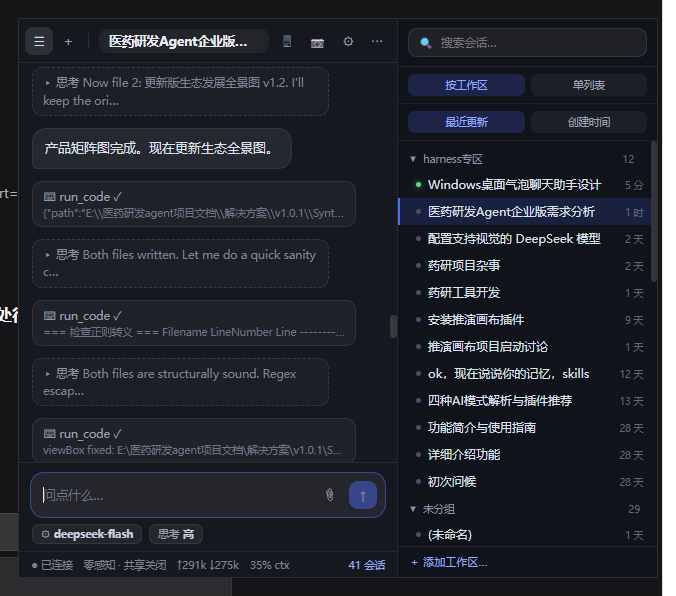
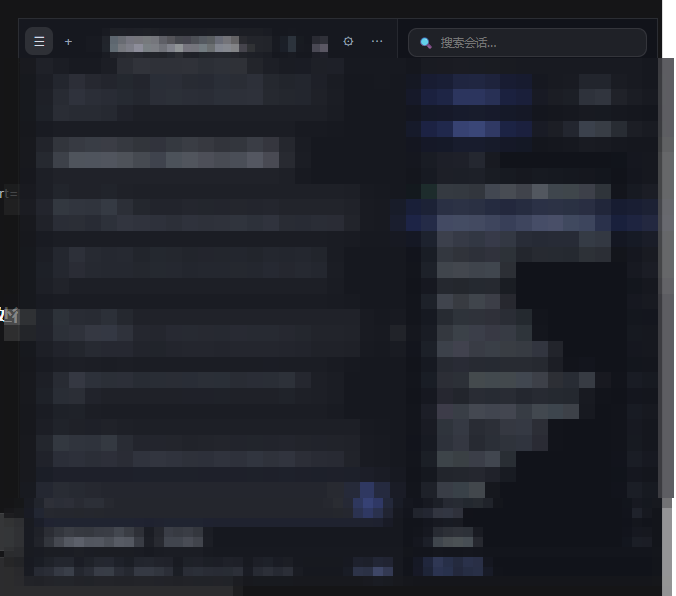
截图打码：侧边栏/聊天内容/状态栏全部马赛克（原来会暴露会话名与项目路径）；删掉已过时的屏幕感知截图（还显示着已合并的三档）

diff --git a/README.md b/README.md
@@ -11,7 +11,7 @@
   <sub>也提供 <a href="https://github.com/xuxian1992/desktop-bubble/releases/latest/download/desktop-bubble-1.0.0-win-x64-setup.exe">安装包 exe（98 MB）</a> · <a href="https://github.com/xuxian1992/desktop-bubble/releases">全部版本</a></sub>
 </p>
 
-![侧边栏与 Markdown](docs/screenshot-sidebar.png)
+![界面预览（内容已打码）](docs/screenshot-sidebar.png)
 
 ## 这是什么
 
@@ -102,7 +102,6 @@ npm run dist       # 出 NSIS 安装包 → release/
 所以设计上**绝不主动把画面推给模型**。模型想知道屏幕上有什么，得自己调工具 ——
 而且它先读到的通常是「14:32 出现了一个标题含『错误』的窗口」这种文字，再决定要不要取像素。
 
-![屏幕感知设置](docs/screenshot-perception.png)
 
 ## 已知限制
 
